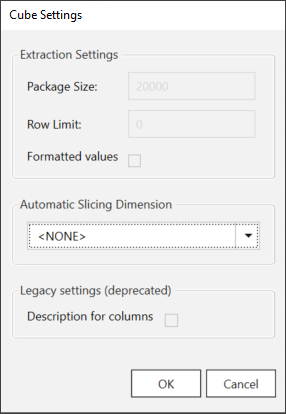
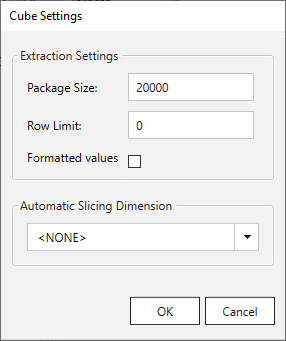
screenshots updated

diff --git a/content/_en/xtract-for-alteryx/bw-cube/bw-cube-settings.md b/content/_en/xtract-for-alteryx/bw-cube/bw-cube-settings.md
@@ -41,7 +41,3 @@ Automatic slicing means that a loop is executed for each single value of the cho
 
 **Automatic Slicing Dimension** allows the extraction of a large amount of data (millions of records) from BW.
 
-### Legacy settings
-
-**Description for Columns (deprecated)** <br>
-If this option is active, the key figure's description will be used for the column name, instead of the technical name. 
